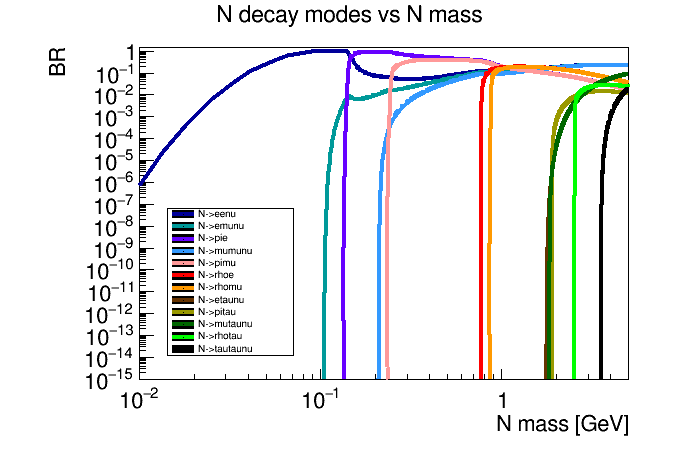
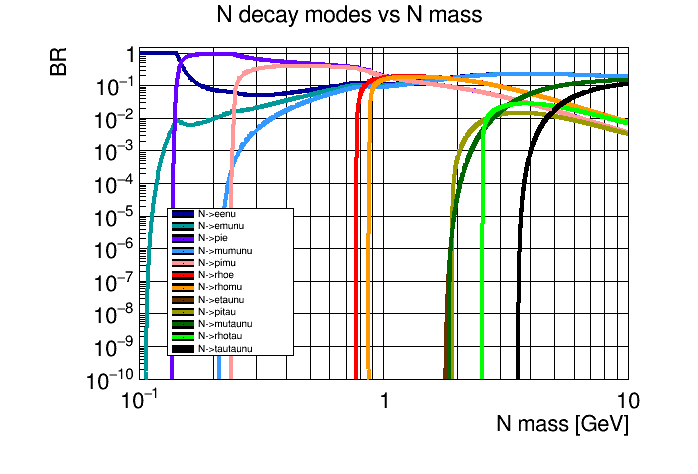
update

diff --git a/MyScripts/Others/GeneralPlots.C b/MyScripts/Others/GeneralPlots.C
@@ -51,7 +51,7 @@ Double_t labelSize = 0.05;
 Double_t titleSize = 0.07;
 Int_t counterProd = 0;
 Int_t counterDecay = 0;
-Int_t colors[14] = {602, 434, 887, 861, 623, 632, 797, 803, 402, 419, 416, 1, 923, 886}; //blue+2, cyan+2, violet+7, azure+1, red-9, red, orange-3, orange+3, yellow+2, green+3, green, black, grey+3, violet+6
+Int_t colors[14] = {602, 434, 887, 861, 623, 632, 797, 803, 402, 419, 416, 1, 922, 886}; //blue+2, cyan+2, violet+7, azure+1, red-9, red, orange-3, orange+3, yellow+2, green+3, green, black, grey+2, violet+6
 
 
 
@@ -137,10 +137,11 @@ Double_t ThreeBodyBR(Double_t Mass1, Double_t Mass2, Double_t Mass3, Double_t Ma
 
   Double_t br = 0.;
 
-  if (Mass3 == K || Mass3 == K0) {
+  if (Mass3 == K || Mass3 == K0 || Mass3 == pi || Mass3 == pi0) {
     if (Mass1 == D || Mass1 == D0) { 
       Double_t ENmin = Mass2; // N at rest, K and e back to back
       Double_t ENmax = (Mass1*Mass1+Mass2*Mass2-TMath::Power(Mass4+Mass3, 2.))/(2.*Mass1); // N one way, K and e other way, their momenta summed equal to the N one
+      Double_t EN = ENmax;
       Double_t q2min = TMath::Power(Mass2+Mass4, 2.); // sum of masses of lepton pair
       Double_t q2max = Mass2*Mass2 + Mass4*Mass4 + 4.*ENmax*ENmax; // sum of 4momenta of lepton pair, when K at rest and N and e back to back
       Double_t tau, V, f, a, b;
@@ -188,7 +189,7 @@ Double_t ThreeBodyBR(Double_t Mass1, Double_t Mass2, Double_t Mass3, Double_t Ma
 	func->SetParameter(4, Mass4);
 	func->SetParameter(1, Mass1);
 	func->SetParameter(3, Mass3);
-	func->SetParameter(5, ENmax);
+	func->SetParameter(5, EN);
       
 	ROOT::Math::WrappedTF1 wf1(*func);
 	ROOT::Math::GaussLegendreIntegrator ig;
@@ -206,6 +207,7 @@ Double_t ThreeBodyBR(Double_t Mass1, Double_t Mass2, Double_t Mass3, Double_t Ma
     if (Mass1 == D || Mass1 == D0) { 
       Double_t ENmin = Mass2; // N at rest, K and e back to back
       Double_t ENmax = (Mass1*Mass1+Mass2*Mass2-TMath::Power(Mass4+Mass3, 2.))/(2.*Mass1); // N one way, K and e other way, their momenta summed equal to the N one
+      Double_t EN = ENmax;
       Double_t q2min = TMath::Power(Mass2+Mass4, 2.); // sum of masses of lepton pair
       Double_t q2max = Mass2*Mass2 + Mass4*Mass4 + 4.*ENmax*ENmax; // sum of 4momenta of lepton pair, when K at rest and N and e back to back
       Double_t tau, V, f, f1, f2, f3, f4, omega2, Omega2, a, b;
@@ -217,7 +219,7 @@ Double_t ThreeBodyBR(Double_t Mass1, Double_t Mass2, Double_t Mass3, Double_t Ma
 	  f1 = fVD/(Mass1+Mass3);
 	  f2 = (Mass1+Mass3)*fA1D;
 	  f3 = -fA2D/(Mass1+Mass3);
-	  f4 = Mass3*(2.*fA0D-fA1D-fA2D) + Mass1*(fA2D-fA1D); // to be multiplied by 1/q^2
+	  f4 = Mass3*(2.*fA0D-fA1D-fA2D) + Mass1*(fA2D-fA1D); // to be multiplied by 1/x
 	}
 	else if (Mass1 == D0) {
 	  tau = D0life;
@@ -228,7 +230,7 @@ Double_t ThreeBodyBR(Double_t Mass1, Double_t Mass2, Double_t Mass3, Double_t Ma
 	  f4 = Mass3*(2.*fA0D0-fA1D0-fA2D0) + Mass1*(fA2D0-fA1D0); // to be multiplied by 1/x
 	}
 
-	omega2 = Mass1*Mass1 - Mass3*Mass3 + Mass2*Mass2 - Mass4*Mass4 - 2.*Mass1*ENmax;
+	omega2 = Mass1*Mass1 - Mass3*Mass3 + Mass2*Mass2 - Mass4*Mass4 - 2.*Mass1*EN;
 	Omega2 = Mass1*Mass1 - Mass3*Mass3; // add -x
 	a = tau*V*V*GF*GF/(32.*TMath::Power(TMath::Pi(), 3.)*Mass1*Mass1);
       
@@ -241,7 +243,7 @@ Double_t ThreeBodyBR(Double_t Mass1, Double_t Mass2, Double_t Mass3, Double_t Ma
 	// + f2*f3*((Omega2 - x)*omega2*(Omega2 - x - omega2)/(Mass3*Mass3) + 2.*omega2*(Mass4*Mass4 - Mass2*Mass2) + (Omega2 - x)*(Mass2*Mass2 - Mass4*Mass4 - x))
 	// + f1*f1*((Omega2 - x)*(Omega2 - x)*(x - Mass2*Mass2 + Mass4*Mass4) - 2.*Mass3*Mass3*(x*x - TMath::Power(Mass2*Mass2 - Mass4*Mass4, 2.)) + 2.*omega2*(Omega2 - x)*(Mass2*Mass2 - x - Mass4*Mass4) + 2.*omega2*omega2*x)
 	
-	TF1 *func = new TF1("func", "([6]*[6]/2.)*(x - [2]*[2] - [4]*[4] + [0]*([1] - x - [0])/([3]*[3])) + (([7]+[8]*1./x)*([7]+[8]*1./x)/2.)*([2]*[2] + [4]*[4])*(x - [2]*[2] + [4]*[4])*(([1] - x)*([1] - x)/(4.*[3]*[3]) - x) + 2.*[7]*[7]*[3]*[3]*(([1] - x)*([1] - x)/(4.*[3]*[3]) - x)*([2]*[2] + [4]*[4] - x + [0]*([1] - x - [0])/([3]*[3])) + 2.*[7]*([7]+[8]*1./x)*([2]*[2]*[0] + ([1] - x - [0])*[4]*[4])*(([1] - x)*([1] - x)/(4.*[3]*[3]) - x) + 2.*[5]*[6]*(x*(2.*[0] - [1] - x) + ([1] - x)*([2]*[2] - [4]*[4])) + ([6]*([7]+[8]*1./x)/2.)*([0]*([1] - x)/([3]*[3])*([2]*[2] - [4]*[4]) + ([1] - x)*([1] - x)*[4]*[4]/([3]*[3]) + 2.*TMath::Power([2]*[2] - [4]*[4], 2.) - 2.*x*([2]*[2] + [4]*[4])) + [6]*[7]*(([1] - x)*[0]*([1] - x - [0])/([3]*[3]) + 2.*[0]*([4]*[4] - [2]*[2]) + ([1] - x)*([2]*[2] - [4]*[4] - x)) + [5]*[5]*(([1] - x)*([1] - x)*(x - [2]*[2] + [4]*[4]) - 2.*[3]*[3]*(x*x - TMath::Power([2]*[2] - [4]*[4], 2.)) + 2.*[0]*([1] - x)*([2]*[2] - x - [4]*[4]) + 2.*[0]*[0]*x)", q2min, q2max);
+	TF1 *func = new TF1("func", "(([6]*[6]/2.)*(x - [2]*[2] - [4]*[4] + [0]*([1] - x - [0])/([3]*[3])) + (([7]+[8]*1./x)*([7]+[8]*1./x)/2.)*([2]*[2] + [4]*[4])*(x - [2]*[2] + [4]*[4])*(([1] - x)*([1] - x)/(4.*[3]*[3]) - x) + 2.*[7]*[7]*[3]*[3]*(([1] - x)*([1] - x)/(4.*[3]*[3]) - x)*([2]*[2] + [4]*[4] - x + [0]*([1] - x - [0])/([3]*[3])) + 2.*[7]*([7]+[8]*1./x)*([2]*[2]*[0] + ([1] - x - [0])*[4]*[4])*(([1] - x)*([1] - x)/(4.*[3]*[3]) - x) + 2.*[5]*[6]*(x*(2.*[0] - [1] + x) + ([1] - x)*([2]*[2] - [4]*[4])) + ([6]*([7]+[8]*1./x)/2.)*([0]*([1] - x)/([3]*[3])*([2]*[2] - [4]*[4]) + ([1] - x)*([1] - x)*[4]*[4]/([3]*[3]) + 2.*TMath::Power([2]*[2] - [4]*[4], 2.) - 2.*x*([2]*[2] + [4]*[4])) + [6]*[7]*(([1] - x)*[0]*([1] - x - [0])/([3]*[3]) + 2.*[0]*([4]*[4] - [2]*[2]) + ([1] - x)*([2]*[2] - [4]*[4] - x)) + [5]*[5]*(([1] - x)*([1] - x)*(x - [2]*[2] + [4]*[4]) - 2.*[3]*[3]*(x*x - TMath::Power([2]*[2] - [4]*[4], 2.)) + 2.*[0]*([1] - x)*([2]*[2] - x - [4]*[4]) + 2.*[0]*[0]*x))", q2min, q2max);
       
 	func->SetParameter(0, omega2);
 	func->SetParameter(1, Omega2);
@@ -267,11 +269,14 @@ Double_t ThreeBodyBR(Double_t Mass1, Double_t Mass2, Double_t Mass3, Double_t Ma
   }
   else if (Mass1 == tau) {
     if (Mass1 >= (Mass2+Mass3+Mass4)) {
-      Double_t a, b, c, d;
+      Double_t a, b, c, d, ENmin, ENmax, EN;
       Double_t life = taulife;
-      Double_t EN = 0.;
 	
       if (Mass3 == 0.1) {
+	Mass3 = 0.;
+	ENmin = Mass2; // N at rest, l and nu back to back
+	ENmax = (Mass1*Mass1+Mass2*Mass2-TMath::Power(Mass4+Mass3, 2.))/(2.*Mass1); // N one way, l and nu other way, their momenta summed equal to the N one
+	EN = ENmax;
 	a = life*GF*GF*Mass1*Mass1*EN/(2.*TMath::Power(TMath::Pi(), 3.));
 	b = 1. + (Mass2*Mass2 - Mass4*Mass4)/(Mass1*Mass1) - 2.*EN/Mass1;
 	c = 1. - Mass4*Mass4/(Mass1*Mass1 + Mass2*Mass2 - 2.*EN*Mass1);
@@ -279,6 +284,10 @@ Double_t ThreeBodyBR(Double_t Mass1, Double_t Mass2, Double_t Mass3, Double_t Ma
 	br = a*b*c*d;
       }
       else if (Mass3 == 0.01) {
+	Mass3 = 0.;
+	ENmin = Mass2; // N at rest, l and nu back to back
+	ENmax = (Mass1*Mass1+Mass2*Mass2-TMath::Power(Mass4+Mass3, 2.))/(2.*Mass1); // N one way, l and nu other way, their momenta summed equal to the N one
+	EN = ENmax;
 	a = life*GF*GF*Mass1*Mass1/(4.*TMath::Power(TMath::Pi(), 3.));
 	b = TMath::Power(1. - Mass4*Mass4/(Mass1*Mass1 + Mass2*Mass2 - 2.*EN*Mass1), 2.)*TMath::Sqrt(EN*EN - Mass2*Mass2);
 	c = (Mass1 - EN)*(1. - (Mass2*Mass2 + Mass4*Mass4)/(Mass1*Mass1));
@@ -599,15 +608,30 @@ void MassScan(Double_t Mass1, Double_t Mass2, Double_t Mass3, Bool_t Prod, Bool_
 
   gr->SetNameTitle(Title.c_str(), Title.c_str());
   gr->SetLineWidth(4);
-  
+
   if (Prod == kTRUE) {
-    gr->SetLineColor(colors[counterProd]);
-    counterProd++;
+    if (counterProd < 14) {
+      gr->SetLineColor(colors[counterProd]);
+      counterProd++;
+    }
+    else {
+      gr->SetLineColor(colors[counterProd-14]);
+      gr->SetLineStyle(7);
+      counterProd++;
+    }
   }
   else if (Prod == kFALSE) {
-    gr->SetLineColor(colors[counterDecay]);
-    counterDecay++;
+    if (counterDecay < 14) {
+      gr->SetLineColor(colors[counterDecay]);
+      counterDecay++;
+    }
+    else {
+      gr->SetLineColor(colors[counterDecay-14]);
+      gr->SetLineStyle(7);
+      counterDecay++;
+    }
   }
+  
   gr->Draw();
   M->Add(gr);
 }
@@ -627,26 +651,23 @@ void GeneralPlots() {
   //MassScan(DS,  e,   0., 1, 1, "DS->Ne",               Mprod);
   //MassScan(DS,  mu,  0., 1, 1, "DS->Nmu",              Mprod);
   //MassScan(DS,  tau, 0., 1, 1, "DS->Ntau",             Mprod);
-
   //MassScan(tau, pi,  0., 1, 1, "DS->taunu; tau->Npi",  Mprod);
   //MassScan(tau, rho, 0., 1, 1, "DS->taunu; tau->Nrho", Mprod);
   
   // HNL production via three-body decay
 
-  //MassScan(D,  K0,  e,  1, 0, "D->K0eN",   Mprod);
-  //MassScan(D,  pi0, e,  1, 0, "D->pi0eN",  Mprod);
-  //MassScan(D0, K,   e,  1, 0, "D0->KeN",   Mprod);
-  //MassScan(D0, pi,  e,  1, 0, "D0->pieN",  Mprod);
-  //MassScan(D,  K0,  mu, 1, 0, "D->K0muN",  Mprod);
-  //MassScan(D,  pi0, mu, 1, 0, "D->pi0muN", Mprod);
-  //MassScan(D0, K,   mu, 1, 0, "D0->KmuN",  Mprod);
-  //MassScan(D0, pi,  mu, 1, 0, "D0->pimuN", Mprod);
-
+  MassScan(D,  K0,  e,  1, 0, "D->K0eN",   Mprod);
+  MassScan(D,  pi0, e,  1, 0, "D->pi0eN",  Mprod);
+  MassScan(D0, K,   e,  1, 0, "D0->KeN",   Mprod);
+  MassScan(D0, pi,  e,  1, 0, "D0->pieN",  Mprod);
+  MassScan(D,  K0,  mu, 1, 0, "D->K0muN",  Mprod);
+  MassScan(D,  pi0, mu, 1, 0, "D->pi0muN", Mprod);
+  MassScan(D0, K,   mu, 1, 0, "D0->KmuN",  Mprod);
+  MassScan(D0, pi,  mu, 1, 0, "D0->pimuN", Mprod);
   MassScan(D,  K0Star,  e,  1, 0, "D->K0*eN",   Mprod);
-  //MassScan(D0, KStar,   e,  1, 0, "D0->K*eN",   Mprod);
-  //MassScan(D,  K0Star,  mu, 1, 0, "D->K0*muN",  Mprod);
-  //MassScan(D0, KStar,   mu, 1, 0, "D0->K*muN",  Mprod);
-
+  MassScan(D0, KStar,   e,  1, 0, "D0->K*eN",   Mprod);
+  MassScan(D,  K0Star,  mu, 1, 0, "D->K0*muN",  Mprod);
+  MassScan(D0, KStar,   mu, 1, 0, "D0->K*muN",  Mprod);
   //MassScan(tau, 0.1,   e,  1, 0, "DS->taunu; tau->Nenu_tau",  Mprod);
   //MassScan(tau, 0.01,  e,  1, 0, "DS->taunu; tau->Nenu_e",    Mprod);
   //MassScan(tau, 0.1,   mu, 1, 0, "DS->taunu; tau->Nmunu_tau", Mprod);
@@ -682,11 +703,11 @@ void GeneralPlots() {
   gPad->SetGridx();
   gPad->SetGridy();
   Mprod->SetMinimum(1.E-20);
-  Mprod->SetMaximum(1.5);
-  Mprod->GetXaxis()->SetLimits(0.01, 5.);
+  Mprod->SetMaximum(1.E-12);
+  Mprod->GetXaxis()->SetLimits(0.1, 5.);
   c->SetLeftMargin(0.2);
   c->SetBottomMargin(0.2);
-  gPad->BuildLegend(0.26, 0.61, 0.55, 0.82);
+  gPad->BuildLegend(0.818, 0.223, 0.984, 0.881);
   gPad->Update();
   gPad->Modified();
   gPad->Write();
@@ -705,9 +726,9 @@ void GeneralPlots() {
   Mdecay->GetYaxis()->SetLabelSize(labelSize);
   gPad->SetLogx();
   gPad->SetLogy();
-  Mdecay->SetMinimum(1.E-15);
+  Mdecay->SetMinimum(1.E-10);
   Mdecay->SetMaximum(1.5);
-  Mdecay->GetXaxis()->SetLimits(0.01, 5.);
+  Mdecay->GetXaxis()->SetLimits(0.1, 10.);
   c->SetLeftMargin(0.2);
   c->SetBottomMargin(0.2);
   gPad->BuildLegend(0.24, 0.25, 0.42, 0.56);
